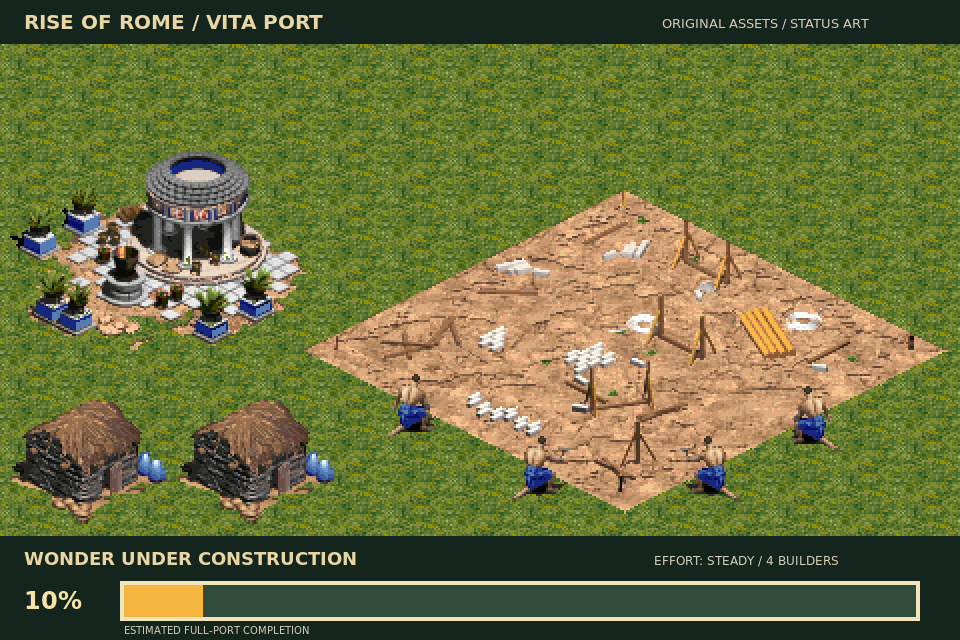
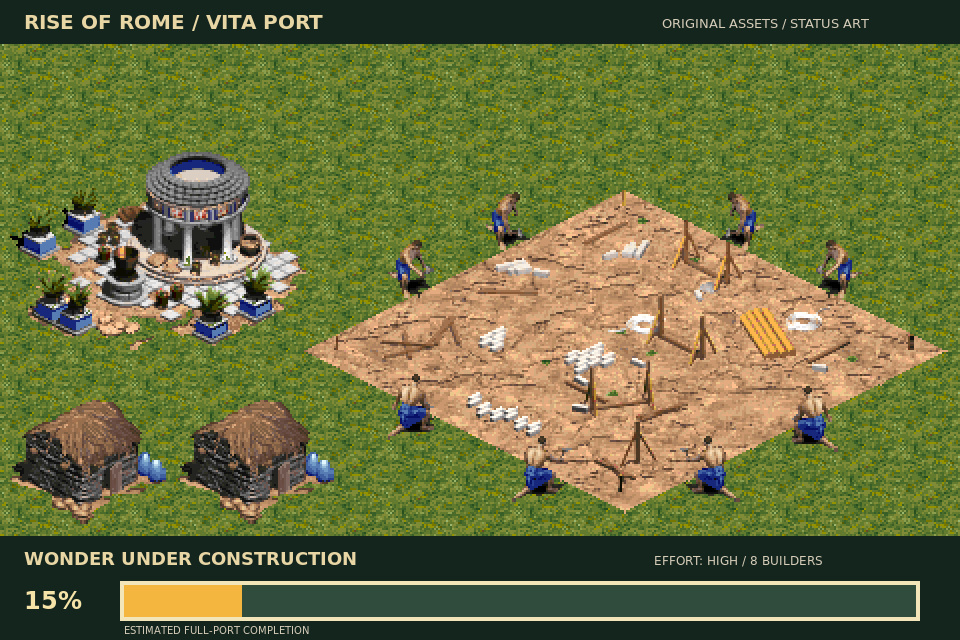
Update port status image to 15%
Raises the full-port estimate from 10% to 15% for the translated command
layer, order routing, pathfinding, movement, attack action, combat,
projectiles and blasts, now exercised on a real campaign map. Effort for
this period is high (eight builders). Rendered with the status_art target
and archived locally under status/history.

diff --git a/docs/RESUME.md b/docs/RESUME.md
@@ -250,7 +250,8 @@ A separate status-art request is fulfilled by `status/port-progress.png` and
 `tools/render_status_art.sh`. It composes genuine local AoE/RoR grass, Roman
 town buildings, Wonder construction stage, and builder sprites. It is
 explicitly labeled original-asset status art, not a Vita/game screenshot.
-The present full-port estimate is approximately 10%; `status/README.md`
+The full-port estimate was approximately 10% at first and is 15% as of
+2026-10-04 (simulation milestones; see `status/current.json`); `status/README.md`
 documents the rationale and how to regenerate the single image at a later
 percentage. This does not advance or satisfy the actual scene-alpha milestone.
 
